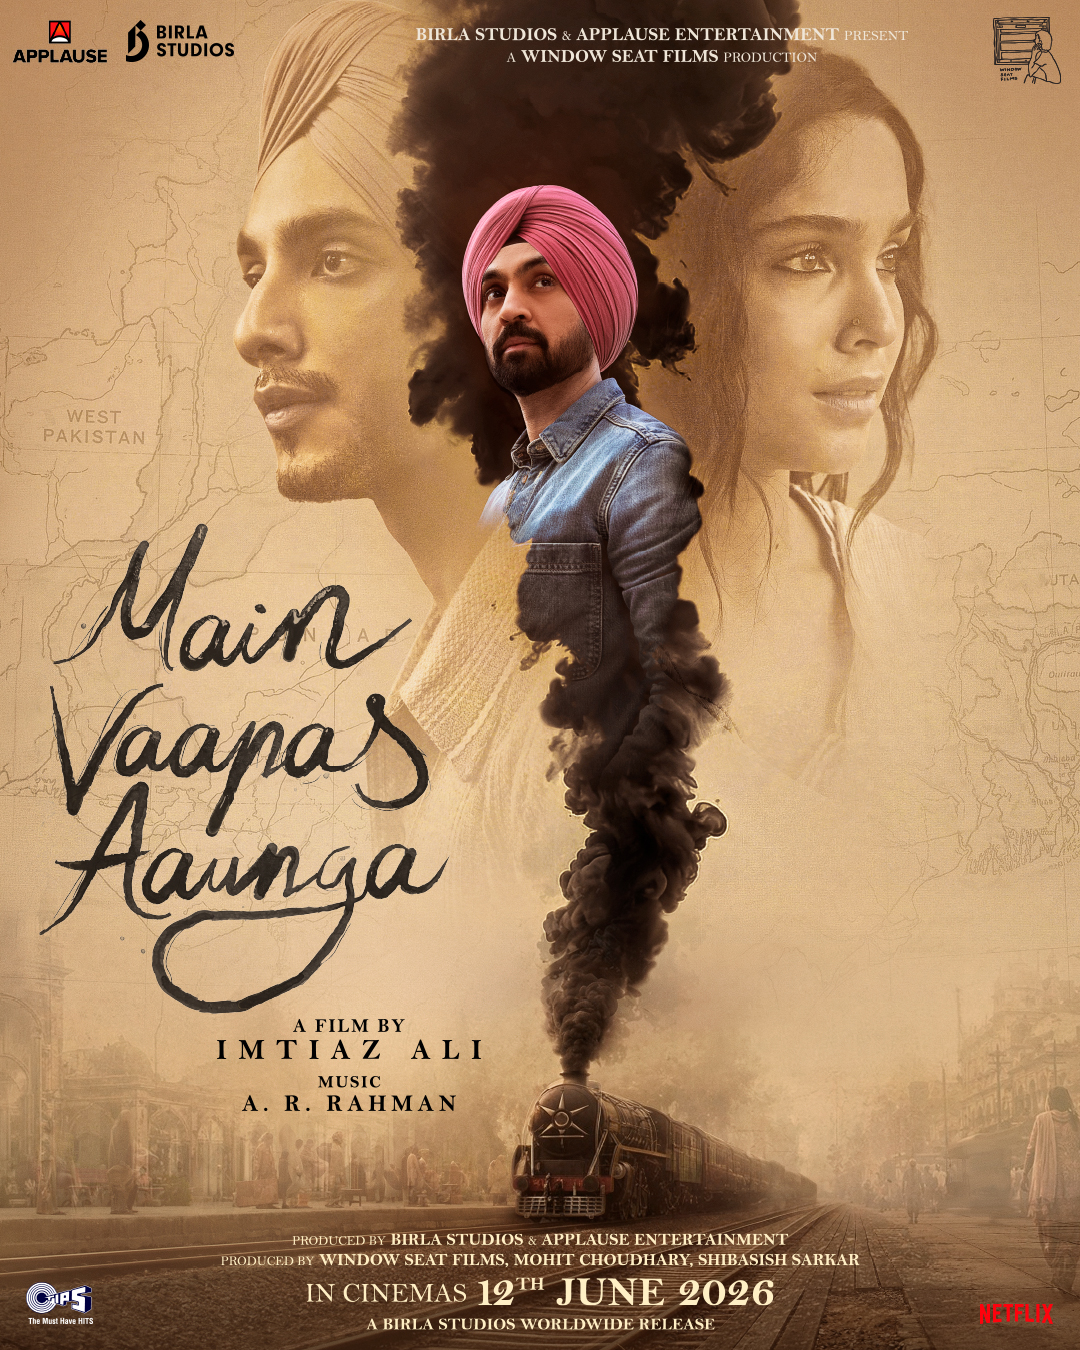
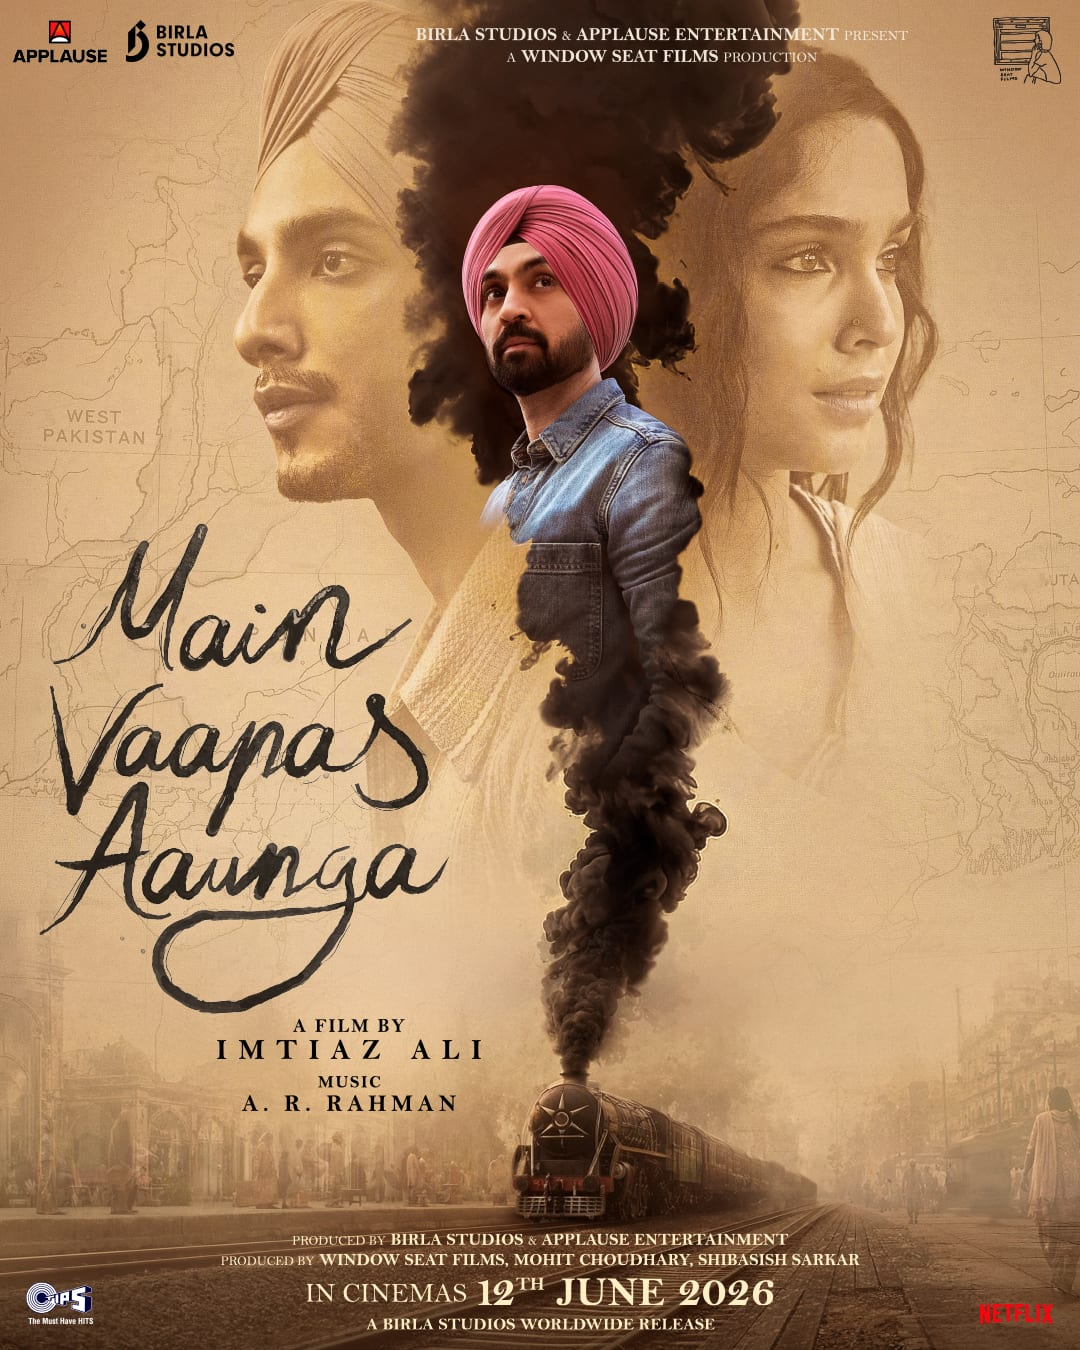
fix

diff --git a/tsbi/src/components/Nav.tsx b/tsbi/src/components/Nav.tsx
@@ -12,27 +12,51 @@ const navLinks = [
   { href: '/case-studies', label: 'Case Studies' },
   { href: '/clients', label: 'Clients' },
   { href: '/media', label: 'Media' },
-  { href: '/services', label: 'Services' },
+];
+
+/* Individual service routes — reached only through this dropdown (the parent
+   "Services" label is a trigger, not a link). */
+const serviceLinks = [
+  { href: '/services/content-production',    label: 'Content Production' },
+  { href: '/services/performance',           label: 'Performance Management' },
+  { href: '/services/digital-transformation', label: 'Digital Transformation' },
+  { href: '/services/influencer-management', label: 'Influencer Management' },
+  { href: '/services/social-media',          label: 'Social Media' },
 ];
 
 export default function Nav() {
   const [menuOpen, setMenuOpen] = useState(false);
+  const [servicesOpen, setServicesOpen] = useState(false);
   const pathname = usePathname();
 
   useEffect(() => {
     setMenuOpen(false);
+    setServicesOpen(false);
   }, [pathname]);
 
   const isActive = (href: string, exact?: boolean) =>
     exact ? pathname === href : pathname.startsWith(href);
+  const servicesActive = pathname.startsWith('/services');
 
   return (
     <nav className="nav-root">
+      {/* scoped overrides so dropdown items aren't restyled by `.nav-links a` */}
+      <style dangerouslySetInnerHTML={{ __html: `
+        .nav-links .nav-dd-btn { font-family: var(--fm); font-size: 14px; font-weight: 600; letter-spacing: .02em; text-transform: uppercase; color: #9b9b9b; }
+        .nav-links .nav-dropdown.open .nav-dd-btn, .nav-links .nav-dd-btn:hover { color: var(--ink); }
+        .nav-links .nav-dd-btn.active { color: #f01891; font-weight: 800; }
+        /* invisible bridge across the 18px gap so the menu stays open while the cursor travels to it */
+        .nav-links .nav-dropdown .nav-dd-panel::before { content: ''; position: absolute; left: -8px; right: -8px; bottom: 100%; height: 26px; }
+        /* CSS-driven hover (no JS timing race): panel + bridge become interactive the instant the trigger is hovered */
+        .nav-links .nav-dropdown:hover .nav-dd-panel { opacity: 1; pointer-events: auto; transform: translateX(-50%) translateY(0); }
+        .nav-links .nav-dropdown:hover .nav-dd-caret { transform: rotate(180deg); }
+        .nav-links a.nav-dd-item { font-family: var(--fb); font-size: 13px; font-weight: 500; letter-spacing: normal; text-transform: none; color: var(--ink); padding: 10px 14px; }
+        .nav-links a.nav-dd-item:hover { color: var(--magenta); background: var(--off); }
+        .nav-links a.nav-dd-item.active { color: var(--magenta); }
+      ` }} />
+
       <div className="nav-inner">
-        {/* Decorative sky-blue geometric line.
-            - header-blue-svg   → GSAP draws the polyline on load via strokeDashoffset
-            - header-blue-end-dot → circle endpoint; fades in after line completes, then pulses
-            - header-blue-travel-dot → tiny dot that loops along the line post-load */}
+        {/* Decorative sky-blue geometric line. */}
         <svg
           className="nav-svg header-blue-svg"
           width="1130"
@@ -41,32 +65,10 @@ export default function Nav() {
           fill="none"
           aria-hidden
         >
-          <polyline
-            points="25,98 385,98 445,24 1110,24"
-            stroke="#8ecbf0"
-            strokeWidth="1"
-            fill="none"
-          />
-          {/* endpoint circle — fades in after the line reaches it */}
-          <circle
-            className="header-blue-end-dot"
-            cx="1110"
-            cy="24"
-            r="3.5"
-            stroke="#8ecbf0"
-            strokeWidth="1"
-            fill="none"
-          />
-          {/* pink start square */}
+          <polyline points="25,98 385,98 445,24 1110,24" stroke="#8ecbf0" strokeWidth="1" fill="none" />
+          <circle className="header-blue-end-dot" cx="1110" cy="24" r="3.5" stroke="#8ecbf0" strokeWidth="1" fill="none" />
           <rect x="22" y="95" width="6" height="6" fill="#ff1aa0" />
-          {/* tiny dot that travels along the line after load */}
-          <circle
-            className="header-blue-travel-dot"
-            cx="25"
-            cy="98"
-            r="2.5"
-            fill="#8ecbf0"
-          />
+          <circle className="header-blue-travel-dot" cx="25" cy="98" r="2.5" fill="#8ecbf0" />
         </svg>
 
         {/* header-logo → GSAP fades in from opacity:0 scale:0.92 */}
@@ -81,7 +83,7 @@ export default function Nav() {
           />
         </Link>
 
-        {/* header-nav-item on each <li> → GSAP staggers them in (y:-5→0, opacity:0→1) */}
+        {/* header-nav-item on each <li> → GSAP staggers them in */}
         <ul className="nav-links">
           {navLinks.map(({ href, label, exact }) => (
             <li key={href} className="header-nav-item">
@@ -90,6 +92,35 @@ export default function Nav() {
               </Link>
             </li>
           ))}
+
+          {/* Services — dropdown trigger (NOT a link; opens on hover/click) */}
+          <li
+            className={`header-nav-item nav-dropdown${servicesOpen ? ' open' : ''}`}
+            onMouseEnter={() => setServicesOpen(true)}
+            onMouseLeave={() => setServicesOpen(false)}
+          >
+            <button
+              type="button"
+              className={`nav-dd-btn${servicesActive ? ' active' : ''}`}
+              aria-haspopup="true"
+              aria-expanded={servicesOpen}
+              onClick={() => setServicesOpen((v) => !v)}
+            >
+              Services <span className="nav-dd-caret">▾</span>
+            </button>
+            <div className="nav-dd-panel">
+              {serviceLinks.map((s) => (
+                <Link
+                  key={s.href}
+                  href={s.href}
+                  className={`nav-dd-item${pathname === s.href ? ' active' : ''}`}
+                >
+                  <span className="nav-dd-dot" />
+                  {s.label}
+                </Link>
+              ))}
+            </div>
+          </li>
         </ul>
 
         <div className="nav-right">
@@ -115,6 +146,19 @@ export default function Nav() {
                 onClick={() => setMenuOpen(false)}
               >
                 {label}
+              </Link>
+            ))}
+
+            {/* Services group — label is not a link, sub-services are */}
+            <div className="nav-mobile-services-label">Services</div>
+            {serviceLinks.map((s) => (
+              <Link
+                key={s.href}
+                href={s.href}
+                className={`nav-mobile-sub${pathname === s.href ? ' active' : ''}`}
+                onClick={() => setMenuOpen(false)}
+              >
+                {s.label}
               </Link>
             ))}
           </div>

diff --git a/tsbi/src/lib/gallery.ts b/tsbi/src/lib/gallery.ts
@@ -1,54 +1,39 @@
-import fs from 'node:fs';
-import path from 'node:path';
+/* Static manifest of /public/about us/galary web images.
+   Generated build-time — do NOT read the filesystem here: a runtime fs scan makes
+   Next.js bundle the whole gallery folder into the serverless function (250MB limit).
+   To refresh after adding/removing photos, run: node scripts/gallery.gen.mjs */
+export interface GalleryImage { src: string; event: string; name: string; }
 
-/* Browser-renderable formats only. HEIC (.heic) and Sony RAW (.arw) are skipped
-   because no browser can display them — export those to .jpg and they appear automatically. */
-const WEB_EXT = new Set(['.jpg', '.jpeg', '.png', '.webp', '.avif', '.gif']);
+export const galleryImages: GalleryImage[] = [
+  {"src":"/about%20us/galary/12th%20party/AR-10.jpg","event":"12th party","name":"AR-10.jpg"},
+  {"src":"/about%20us/galary/12th%20party/AR-13.jpg","event":"12th party","name":"AR-13.jpg"},
+  {"src":"/about%20us/galary/12th%20party/AR-16.jpg","event":"12th party","name":"AR-16.jpg"},
+  {"src":"/about%20us/galary/12th%20party/AR-17.jpg","event":"12th party","name":"AR-17.jpg"},
+  {"src":"/about%20us/galary/12th%20party/AR-2.jpg","event":"12th party","name":"AR-2.jpg"},
+  {"src":"/about%20us/galary/12th%20party/AR-23%20(1).jpg","event":"12th party","name":"AR-23 (1).jpg"},
+  {"src":"/about%20us/galary/12th%20party/AR-26.jpg","event":"12th party","name":"AR-26.jpg"},
+  {"src":"/about%20us/galary/12th%20party/AR-35.jpg","event":"12th party","name":"AR-35.jpg"},
+  {"src":"/about%20us/galary/12th%20party/AR-6.jpg","event":"12th party","name":"AR-6.jpg"},
+  {"src":"/about%20us/galary/Coke%20Event/DSC00922.JPG","event":"Coke Event","name":"DSC00922.JPG"},
+  {"src":"/about%20us/galary/Coke%20Event/DSC00923.JPG","event":"Coke Event","name":"DSC00923.JPG"},
+  {"src":"/about%20us/galary/Coke%20Event/DSC00924.JPG","event":"Coke Event","name":"DSC00924.JPG"},
+  {"src":"/about%20us/galary/Coke%20Event/DSC00925.JPG","event":"Coke Event","name":"DSC00925.JPG"},
+  {"src":"/about%20us/galary/Fluid%20Art/IMG_8335.jpg","event":"Fluid Art","name":"IMG_8335.jpg"},
+  {"src":"/about%20us/galary/Fluid%20Art/IMG_8336.jpg","event":"Fluid Art","name":"IMG_8336.jpg"},
+  {"src":"/about%20us/galary/Fluid%20Art/IMG_8344.jpg","event":"Fluid Art","name":"IMG_8344.jpg"},
+  {"src":"/about%20us/galary/Fluid%20Art/IMG_8345.jpg","event":"Fluid Art","name":"IMG_8345.jpg"},
+  {"src":"/about%20us/galary/Fluid%20Art/IMG_8367.jpg","event":"Fluid Art","name":"IMG_8367.jpg"},
+  {"src":"/about%20us/galary/Fluid%20Art/IMG_8368.jpg","event":"Fluid Art","name":"IMG_8368.jpg"},
+  {"src":"/about%20us/galary/Hallowwen/thumbnail.JPG","event":"Hallowwen","name":"thumbnail.JPG"},
+  {"src":"/about%20us/galary/Mother's%20Day%2025%20%26%2026/IMG_4152.jpg","event":"Mother's Day 25 & 26","name":"IMG_4152.jpg"},
+  {"src":"/about%20us/galary/Mother's%20Day%2025%20%26%2026/IMG_4179.jpg","event":"Mother's Day 25 & 26","name":"IMG_4179.jpg"},
+  {"src":"/about%20us/galary/Mother's%20Day%2025%20%26%2026/IMG_8977.jpg","event":"Mother's Day 25 & 26","name":"IMG_8977.jpg"},
+  {"src":"/about%20us/galary/Mother's%20Day%2025%20%26%2026/WhatsApp%20Image%202025-05-09%20at%206.18.01%20PM.jpeg","event":"Mother's Day 25 & 26","name":"WhatsApp Image 2025-05-09 at 6.18.01 PM.jpeg"},
+  {"src":"/about%20us/galary/Onam%2025/IMG_4163.jpg","event":"Onam 25","name":"IMG_4163.jpg"},
+  {"src":"/about%20us/galary/Onam%2025/IMG_4172.jpg","event":"Onam 25","name":"IMG_4172.jpg"},
+  {"src":"/about%20us/galary/Onam%2025/IMG_4214.jpg","event":"Onam 25","name":"IMG_4214.jpg"},
+];
 
-export interface GalleryImage {
-  src: string;    // public URL (path segments URL-encoded)
-  event: string;  // subfolder name it came from
-  name: string;   // file name
-}
-
-/** URL-encode each path segment of a public-relative path. */
-function toPublicUrl(relFromPublic: string): string {
-  return '/' + relFromPublic.split(path.sep).map(encodeURIComponent).join('/');
-}
-
-/**
- * Recursively collect every web-displayable image under /public/about us/galary,
- * tagged with the event (subfolder) it belongs to. Runs on the server (fs).
- */
 export function getGalleryImages(): GalleryImage[] {
-  const publicDir = path.join(process.cwd(), 'public');
-  const root = path.join(publicDir, 'about us', 'galary');
-  const out: GalleryImage[] = [];
-
-  const walk = (dir: string, event: string) => {
-    let items: fs.Dirent[];
-    try {
-      items = fs.readdirSync(dir, { withFileTypes: true });
-    } catch {
-      return;
-    }
-    for (const it of items) {
-      const full = path.join(dir, it.name);
-      if (it.isDirectory()) {
-        walk(full, it.name); // each subfolder becomes the event label
-      } else if (WEB_EXT.has(path.extname(it.name).toLowerCase())) {
-        out.push({
-          src: toPublicUrl(path.relative(publicDir, full)),
-          event: event || 'TSBI',
-          name: it.name,
-        });
-      }
-    }
-  };
-
-  walk(root, 'TSBI');
-
-  // stable order: event, then file name
-  out.sort((a, b) => a.event.localeCompare(b.event) || a.name.localeCompare(b.name));
-  return out;
+  return galleryImages;
 }